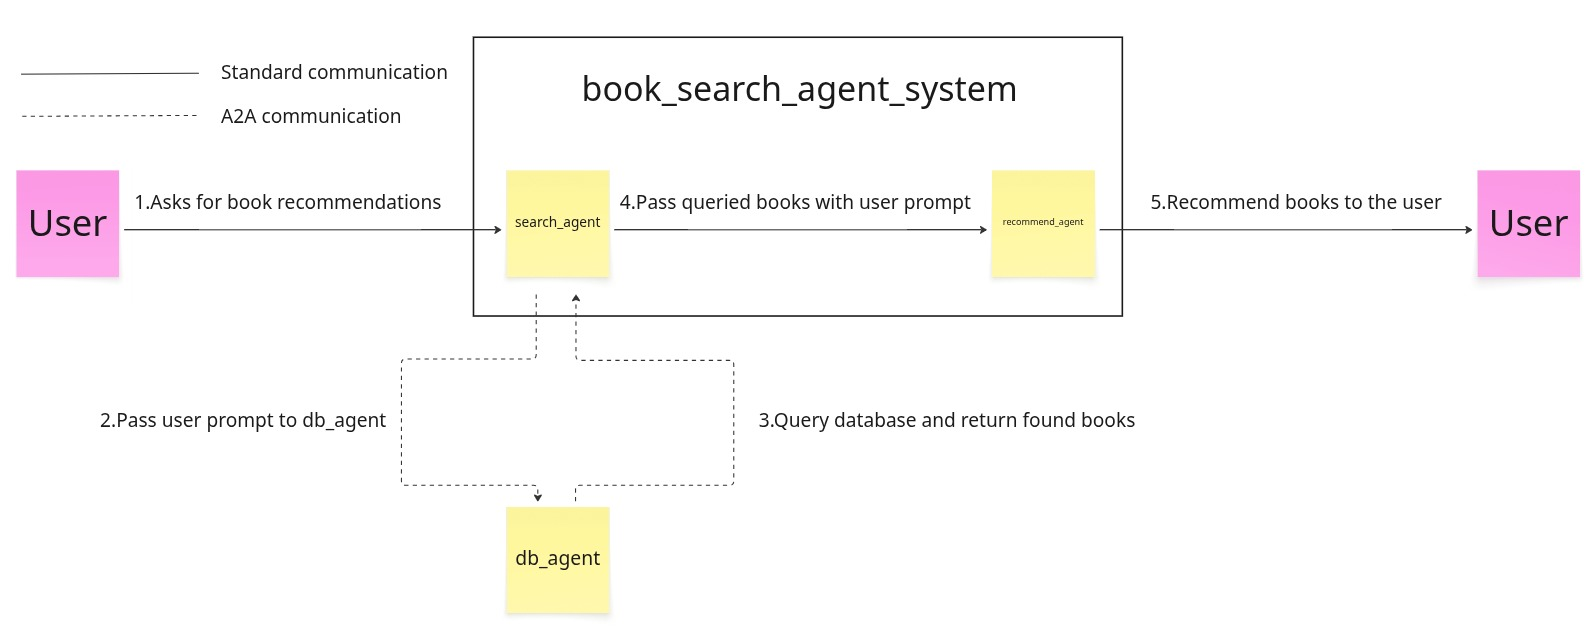
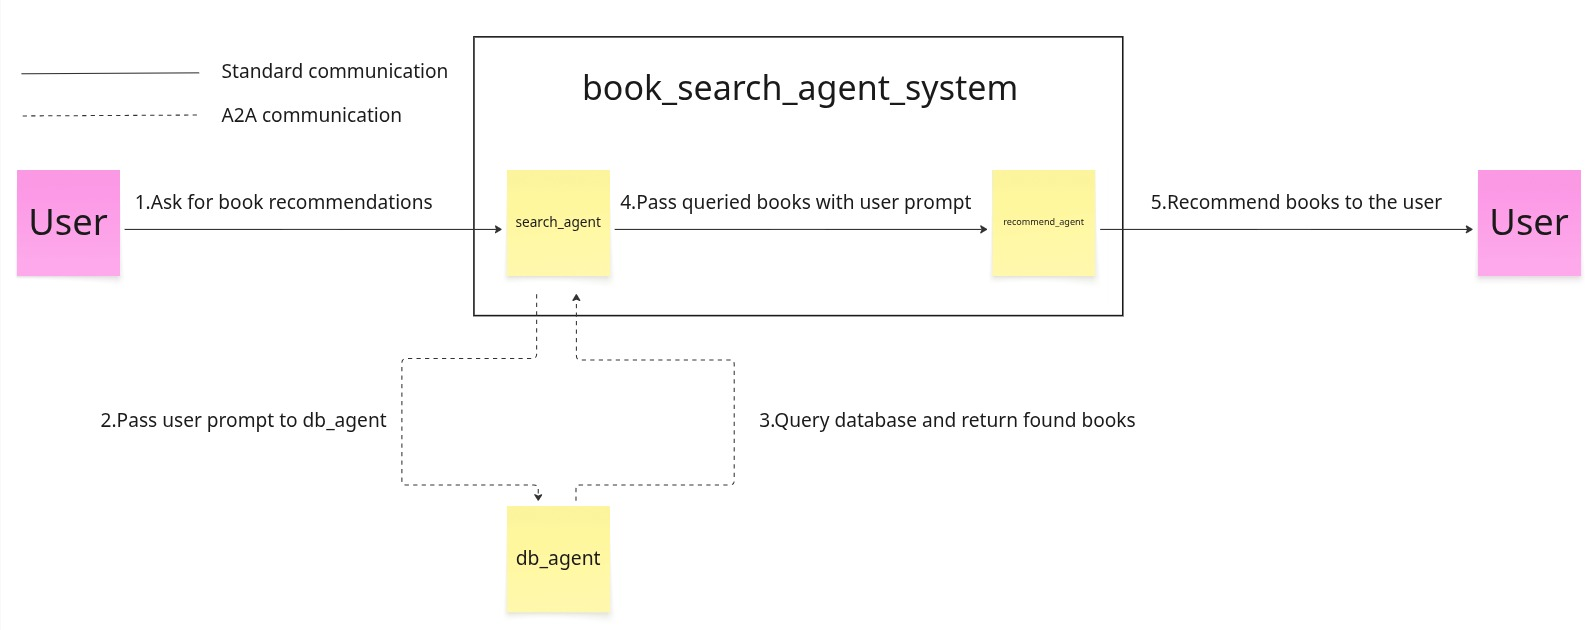
project finish

diff --git a/README.md b/README.md
@@ -1,14 +1,16 @@
-# AI-Agents-Capstone-Project-2025
+# AI Agents Capstone Project 2025 (Smart Bookshop Assistant)
 
-**Capstone Project made as a part of 5-Day AI Agents Intensive Course with Google 2025**   
+![System Running Example](assets/running_example.png)
+
+**Capstone Project made as a part of [5-Day AI Agents Intensive Course with Google 2025](https://www.kaggle.com/learn-guide/5-day-agents)**   
 **Category**: Enterprise Agents  
 **Project Name**: Smart Bookshop Assistant
 
 # Problem formulation
 Let's imagine a following scenario:  
-You are a student searching for some books on the topic of AI Agents. You could of course just type "AI Agents book" in the Google search or in any bookshop search system yet after this you still need to manually check each suggestion and verify whether or not this is what you are looking for. What if you are searching for a certain topic related to AI Agents? The search can become very tedious quickly.
+You are a student searching for some books on the topic of AI Agents. You could of course just type "AI Agents book" in the Google search or in any bookshop search system, yet after this you still need to manually check each suggestion and verify whether or not this is what you are looking for. What if you are searching for a certain topic related to AI Agents? The search can become very tedious quickly.
 
-Solution - use AI Agents! AI Agents may use your message to select books that fit your criteria the best. Additionally they can give you a quick summary of each of the suggestions. That way you can quickly find interesting books without having to manually check each suggestion.
+Solution - use AI Agents! AI Agents may use your message to select books that fit your criteria the best. Additionally they can give you a quick summary on each of the suggestions. That way you can quickly find interesting books without having to manually check each suggestion.
 
 In this project we are using [Books Dataset by Elvin Rustamov](https://www.kaggle.com/datasets/elvinrustam/books-dataset) to simulate a virtual bookstore. We will be implementing a simple AI Agents System that will accept user message and return a recommended list of books. If no books are found that meet user criteria the system will communicate that to the user.
 
@@ -20,9 +22,9 @@ NOTE - this project is just a prototype! It's meant to show the strengths of AI 
 How the system works:
 1. The user asks about book recommendations e.g., books about history
 2. search_agent accepts the user input. Using session memory it modifies the original user prompt (e.g., user doesn't like politics = the prompt will now include that user does not want history books related to politics). This prompt is passed using A2A protocol to the db_agent.
-3. db_agent searches for authors, categories and keywords in the prompt it receives. Than it queries the database for books that meet this criteria. The list of books is passed to the search_agent
-4. search_agent passes the list of books with original user prompt to the recommend_agent
-5. recommend_agent analyses the list of books and original user prompt and selects books that fit user criteria best. The list is returned to the user as a text
+3. db_agent searches for authors, categories and keywords in the prompt it receives. Than it queries the database for books that meet the criteria. The list of books is passed to the search_agent
+4. search_agent passes the list of books with the original user prompt to the recommend_agent
+5. recommend_agent analyses the list of books and the original user prompt and selects books that fit user criteria best. The list is returned to the user in a form of text
 
 # Features of the AI Agents System
 This project utilizes:
@@ -33,7 +35,7 @@ This project utilizes:
     - custom tools (function to query database used by db_agent)
 - Sessions & Memory
     - Sessions & state management (DatabaseSessionService)
-- Observability: Logging (logging the performance of db_agent and book_search_agent_system, saving a part of successful queries and all failed queries to the database for future analysis)
+- Observability: Logging (logging the performance of db_agent and book_search_agent_system)
 - A2A Protocol (communication between db_agent and search_agent)
 
 # Setup
@@ -69,11 +71,56 @@ source venv/bin/activate
 python -m scripts.create_books_db
 ```  
 
-## How proper configuration looks
+## Verifying configuration
 
+![Configuration](assets/proper_config.png)
 
+Your configuration should look like this after doing all the commands above.
+
+# Running
+You'll need to open two terminals
+
+In the first terminal type  
+```properties
+source venv/bin/activate
 uvicorn scripts.a2a_db_agent:a2a_app --host localhost --port 8001
-http://localhost:8001/.well-known/agent-card.json
+```  
 
-## 
-Create .env file
+This will start a server on which db_agent will be running. To test if the server runs correctly go to http://localhost:8001/.well-known/agent-card.json. If you see a proper json file it means that the server is running with no issues.
+
+In the second terminal type
+```properties
+source venv/bin/activate
+python -m scripts.run_bookshop_agent
+```  
+
+If everything is configured successfully you should be able to communicate with an AI Agent System using the second terminal. Type a message and wait for system response.
+
+# Logging and other features
+While communicating with the system you should notice the creation of the following files:
+- db/bookshop_session.db (database that saves session memory)
+- db/db_agent_data.db (database that saves failed queries and some part of successful queries for future analysis)
+- logs/bookshop_agent_logs.log (track bookshop_agent work)
+- logs/db_agent_logs.log (track db_agent work including success and failure of queries)
+
+# Other scripts
+
+You may run other scripts by typing in the console
+```properties
+source venv/bin/activate
+python -m scripts.<script_name>
+```  
+
+**print_data_books_db** - see sample data that is stored in books database  
+**query_books_db** - query the books database with sample queries  
+**query_db_agent_db** - see query data stored during db_agent run  
+**test_bookshop_agent** - test book_search_agent_system with sample messsages. NOTE - before you run the script you need to start the server that db_agent is running using uvicorn  
+**test_db_agent** - test db_agent with sample messages  
+
+# AI usage during development
+Concept of the project and core parts of the system (architecture, main parts of the code) were implemented by me.
+
+AI was used to refactor given parts of the code (including rephrasing the instruction for AI Agents).
+
+# Acknowledgments
+I'd like to thank Google for the course and opportunity to learn about AI Agents. I really enjoyed the course and what I've learned during these 5 days and while implementing this project.  
